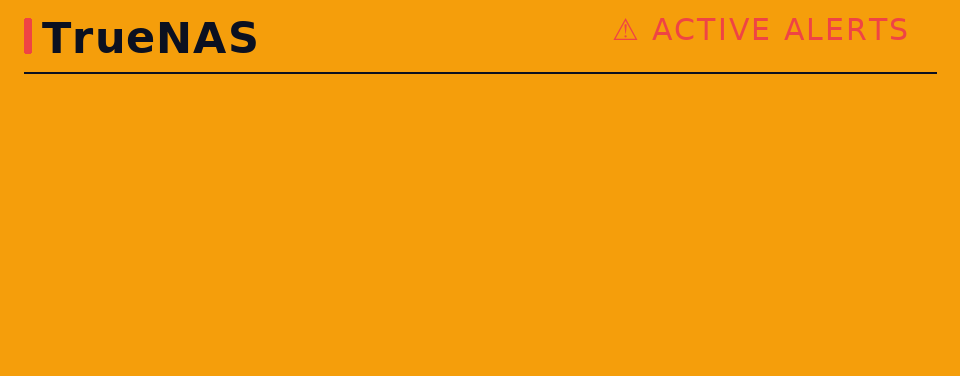
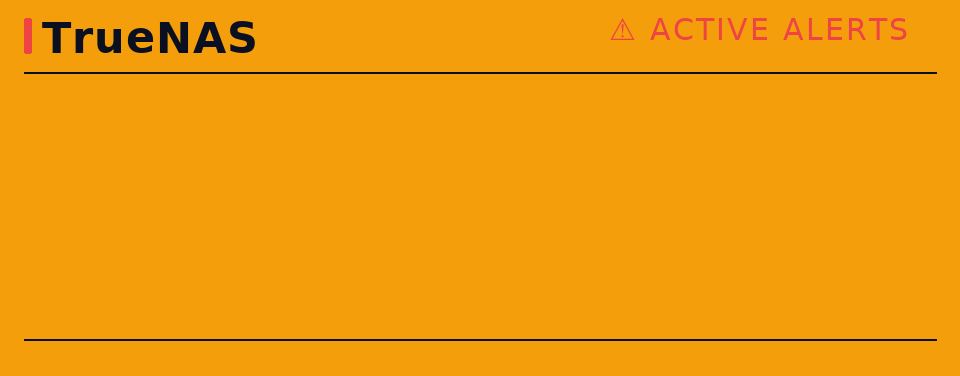
Blue header divider + bigger title on all 3 main pages; footer divider on all 4; date/time moved left
- Header divider (below "TrueNAS"/page title): DIVIDER(gray)->ACCENT(blue)
  on system/container/storage-overview. Page title font 30->34 on the
  same three. render-alert-bg.py deliberately excluded -- it keeps its
  own inverted red/amber hazard scheme, never blue.
- New divider above the footer row, added to all 4 pages: ACCENT(blue)
  on system/container/storage, DARK_TEXT on alert (matching that page's
  existing top divider instead of blue). y=339 clears the lowest
  non-footer content on any page (worst case: storage's own nvme temp
  row, ink bottom 327.67) with ~9-10px real clearance to both that
  content and the footer's own topmost ink (348.33) -- verified with
  tools/pixel-probe.
- date_time moved 25px left (377->352) in monitor.json, on all 4 pages
  (it's the same shared field/position everywhere) -- still 7px real
  clearance to the widest realistic footer status text ("NVME DEGRADED").

Only the storage page could be live-verified against the real device
(mianban is currently pinned to it) -- the other 3 pages' changes are
static PNG elements using the same exact PIL rendering already confirmed
correct, plus the same date_time treatment just verified live.

diff --git a/scripts/render-storage-bg.py b/scripts/render-storage-bg.py
@@ -59,10 +59,16 @@ def draw_spaced(xy, text, font, fill, spacing=0, anchor_end=False, anchor_middle
 # exact since this is a static draw_spaced call, not an asterctl dynamic
 # field) rather than left at its old height, so it still exactly brackets
 # the (now taller) text as asked.
+#
+# 20th pass (2026-08-17): page-title font 30->34, and the divider below
+# the header row DIVIDER(gray)->ACCENT(blue) -- same treatment applied to
+# render-system-bg.py/render-container-bg.py so all three main pages
+# match (NOT render-alert-bg.py, which deliberately keeps its own
+# inverted red/amber hazard scheme, never blue).
 d.rounded_rectangle((24, 17, 24 + 7, 17 + 37), radius=2, fill=ACCENT)
 draw_spaced((42, 53), "TrueNAS", bold(48), WHITE, spacing=1)
-draw_spaced((910, 40), "STORAGE OVERVIEW", reg(30), PAGE_LABEL, spacing=2, anchor_end=True)
-d.line((24, 72, 936, 72), fill=DIVIDER, width=2)
+draw_spaced((910, 40), "STORAGE OVERVIEW", reg(34), PAGE_LABEL, spacing=2, anchor_end=True)
+d.line((24, 72, 936, 72), fill=ACCENT, width=2)
 
 # Rows reworked 2026-08-15 into one row per pool (TANK, NVME) instead of 4
 # single-stat columns -- nvme-pool is now a real 4-drive raidz1, not just
@@ -247,6 +253,17 @@ for row_y, disk_name_xs in (
 # at fontSize 30/26 -- verified with tools/pixel-probe), giving ~8px
 # clearance to each row, matching this page's other divider junctions.
 d.line((24, 293, 936, 293), fill=DIVIDER, width=2)
+
+# 20th pass (2026-08-17): divider above the footer row, ACCENT (blue,
+# matching the rest of this page's lines) -- same treatment applied to
+# render-system-bg.py/render-container-bg.py/render-alert-bg.py (alert
+# uses its own DARK_TEXT instead of blue, matching its inverted scheme)
+# so it shows up on every page's footer, not just this one. y=339 clears
+# the lowest non-footer content on ANY of the 4 pages (worst case here:
+# this page's own nvme temp row, ink bottom 327.67) by ~10px, with ~9px
+# to the footer's own topmost ink (348.33) -- verified with
+# tools/pixel-probe against each page's worst-case content.
+d.line((24, 339, 936, 339), fill=ACCENT, width=2)
 
 # Footer: entirely live monitor.json sensor fields -- status dot+text
 # (left), date_time (center), ip_address (right). Nothing left to draw

diff --git a/scripts/render-system-bg.py b/scripts/render-system-bg.py
@@ -51,11 +51,17 @@ def draw_spaced(xy, text, font, fill, spacing=0, anchor_end=False, anchor_middle
         cx += w + spacing
 
 
-# Header
-d.rounded_rectangle((24, 18, 24 + 7, 18 + 35), radius=2, fill=ACCENT)
-draw_spaced((42, 53), "TrueNAS", bold(43), WHITE, spacing=1)
-draw_spaced((910, 40), "SYSTEM OVERVIEW", reg(30), PAGE_LABEL, spacing=2, anchor_end=True)
-d.line((24, 72, 936, 72), fill=DIVIDER, width=2)
+# Header. TrueNAS label 43->48pt, page-title 30->34, header divider
+# DIVIDER(gray)->ACCENT(blue) (2026-08-17, matching render-storage-bg.py's
+# same-day treatment so all three main pages match -- NOT
+# render-alert-bg.py, which deliberately keeps its own inverted red/amber
+# hazard scheme). Accent bar's y-span recomputed from the real ink bbox
+# at the new TrueNAS size (17-54, was 18-53) so it still exactly brackets
+# the text.
+d.rounded_rectangle((24, 17, 24 + 7, 17 + 37), radius=2, fill=ACCENT)
+draw_spaced((42, 53), "TrueNAS", bold(48), WHITE, spacing=1)
+draw_spaced((910, 40), "SYSTEM OVERVIEW", reg(34), PAGE_LABEL, spacing=2, anchor_end=True)
+d.line((24, 72, 936, 72), fill=ACCENT, width=2)
 
 # Row 1: CPU/GPU/MEMORY/POOL (2026-07-31, GPU moved next to CPU). Row 2
 # reflowed onto the same 4-column grid. Both rows fully centered (text-
@@ -77,6 +83,12 @@ d.line((24, 216, 936, 216), fill=DIVIDER, width=2)
 row2_font = bold(24)
 for x, text in [(130, "DOWNLOAD"), (366, "UPLOAD"), (603, "CONNECTIONS"), (839, "UPTIME")]:
     draw_spaced((x, 256), text, row2_font, LABEL, spacing=1.5, anchor_middle=True)
+
+# Divider above the footer row (2026-08-17), ACCENT (blue) -- same
+# treatment across all 4 pages (alert uses its own DARK_TEXT instead),
+# see render-storage-bg.py's same-day comment for the y=339 derivation
+# (clears the lowest content on any page, ~9-10px clearance each side).
+d.line((24, 339, 936, 339), fill=ACCENT, width=2)
 
 # Footer: entirely live monitor.json sensor fields, nothing to draw here.
 

diff --git a/scripts/render-container-bg.py b/scripts/render-container-bg.py
@@ -53,11 +53,17 @@ def draw_spaced(xy, text, font, fill, spacing=0, anchor_end=False, anchor_middle
         cx += w + spacing
 
 
-# Header
-d.rounded_rectangle((24, 18, 24 + 7, 18 + 35), radius=2, fill=ACCENT)
-draw_spaced((42, 53), "TrueNAS", bold(43), WHITE, spacing=1)
-draw_spaced((910, 40), "CONTAINER OVERVIEW", reg(30), PAGE_LABEL, spacing=2, anchor_end=True)
-d.line((24, 72, 936, 72), fill=DIVIDER, width=2)
+# Header. TrueNAS label 43->48pt, page-title 30->34, header divider
+# DIVIDER(gray)->ACCENT(blue) (2026-08-17, matching render-storage-bg.py's
+# same-day treatment so all three main pages match -- NOT
+# render-alert-bg.py, which deliberately keeps its own inverted red/amber
+# hazard scheme). Accent bar's y-span recomputed from the real ink bbox
+# at the new TrueNAS size (17-54, was 18-53) so it still exactly brackets
+# the text.
+d.rounded_rectangle((24, 17, 24 + 7, 17 + 37), radius=2, fill=ACCENT)
+draw_spaced((42, 53), "TrueNAS", bold(48), WHITE, spacing=1)
+draw_spaced((910, 40), "CONTAINER OVERVIEW", reg(34), PAGE_LABEL, spacing=2, anchor_end=True)
+d.line((24, 72, 936, 72), fill=ACCENT, width=2)
 
 # Row 1 labels + blue bars -- centered 2026-07-31 at each column's center
 # x=155/383/611/839 (bar_x+90), was left-aligned at the bar starts.
@@ -71,6 +77,12 @@ d.line((24, 183, 936, 183), fill=DIVIDER, width=2)
 
 # STATUS section label -- left-aligned, not part of the column grid.
 draw_spaced((45, 211), "STATUS", label_font, LABEL, spacing=1.5)
+
+# Divider above the footer row (2026-08-17), ACCENT (blue) -- same
+# treatment across all 4 pages (alert uses its own DARK_TEXT instead),
+# see render-storage-bg.py's same-day comment for the y=339 derivation
+# (clears the lowest content on any page, ~9-10px clearance each side).
+d.line((24, 339, 936, 339), fill=ACCENT, width=2)
 
 # Footer: entirely live monitor.json sensor fields, nothing to draw here.
 

diff --git a/scripts/render-alert-bg.py b/scripts/render-alert-bg.py
@@ -57,6 +57,14 @@ draw_spaced((42, 53), "TrueNAS", bold(43), DARK_TEXT, spacing=1)
 draw_spaced((910, 40), "⚠ ACTIVE ALERTS", reg(30), ALERT_ACCENT, spacing=2, anchor_end=True)
 d.line((24, 72, 936, 72), fill=DARK_TEXT, width=2)
 
+# Divider above the footer row (2026-08-17) -- same treatment added to
+# the other 3 pages' generators the same day, but this page keeps
+# DARK_TEXT instead of ACCENT-blue (deliberately never uses that color,
+# see the hazard-scheme note at the top of this file). y=339 matches the
+# other pages' derivation; alert_line6 (this page's lowest content,
+# y=310) clears it with real room to spare.
+d.line((24, 339, 936, 339), fill=DARK_TEXT, width=2)
+
 out = DASHBOARD_DIR / "img" / "alert-overview.png"
 img.save(out)
 print(f"saved {out}")
